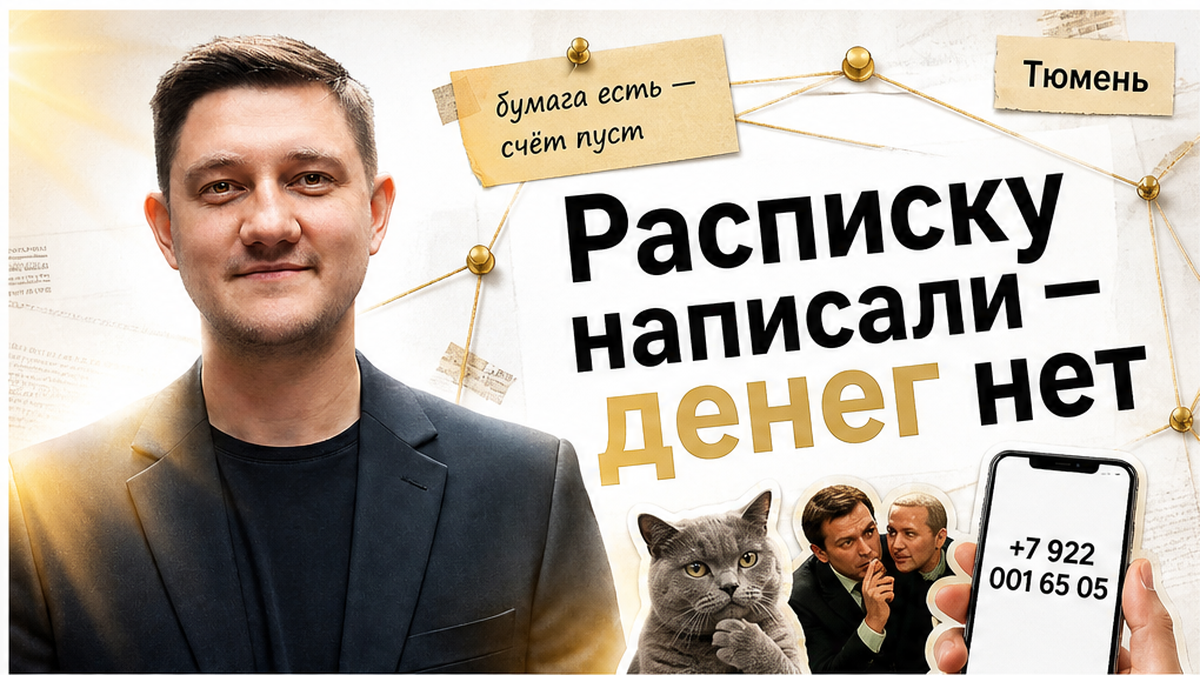
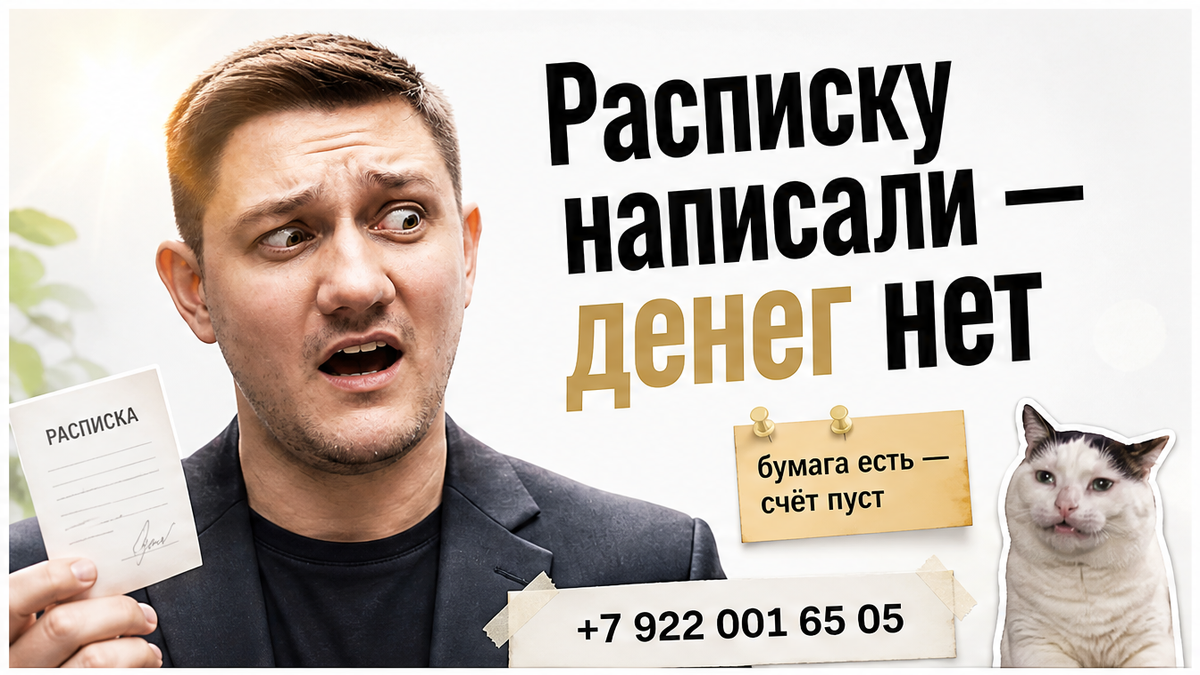
Expression invention: identity ≠ pose freeze; B02 bewildered cover
- cover-canon/blog-hero: KEEP bone structure, FREE emotion/pose each run
- Cover/Cover-QA skills: FAIL if studio smile copied 1:1
- Prompt: same person, NEW expression, FORBIDDEN polite studio smile
- B02 cover regen: bewildered «где деньги?»; md5 f1e90915d45c1929b0a28eabb78d0e30

diff --git a/scripts/excalibur_blog_cover_quad_prompt.py b/scripts/excalibur_blog_cover_quad_prompt.py
@@ -53,7 +53,12 @@ def sanitize_cover_scene_hint(scene: str, highlight: str) -> str:
     return _PINK_WORD_IN_SCENE.sub(_repl, scene)
 
 
-BODY_LOCK = "face-studio-2026-06-23 jaw/stubble/hairline; medium-slim; NOT chubby/puffy"
+BODY_LOCK = "face-studio identity: jaw/stubble/hairline/eyes; medium-slim; NOT chubby/puffy"
+I2I_EXPRESSION_LOCK = (
+    "same person as reference, NEW expression for the hook, "
+    "do NOT copy reference closed-mouth smile/pose/head angle; "
+    "FORBIDDEN polite studio smile"
+)
 COVER_PHONE_CTA = "+7 922 001 65 05"
 BOARD_STATIONERY = "tape/pins/strings/paper scraps; high-key #FFF/gold; not noir"
 INLINE_BAN_EXTRA = "icon slogans; empty cells; desk scene; cover copy; celebrity memes"
@@ -398,6 +403,9 @@ def build_prompt(
             if highlight
             else "paint at most ONE punch word in gold #dcc5a1"
         )
+        cover_emotion = compact(
+            str(cover.get("cover_emotion") or manifest.get("cover_emotion") or ""), 120
+        )
         cover_scene = sanitize_cover_scene_hint(str(cover.get("scene_hint") or ""), highlight)
         cover_hook_text = compact(manifest.get("cover_hook", ""), 120)
         cover_sticky = compact(str(cover.get("sticky") or ""), 48)
@@ -406,10 +414,15 @@ def build_prompt(
             if cover_sticky
             else ""
         )
+        emotion_clause = (
+            f"Expression: {cover_emotion}. {I2I_EXPRESSION_LOCK}."
+            if cover_emotion
+            else f"{I2I_EXPRESSION_LOCK}."
+        )
         panel_lines.append(
             f"TL COVER TXT «{cover_hook_text}» bold Cyrillic black, {highlight_rule}.{sticky_lock} "
             f"Phone EXACT «{COVER_PHONE_CTA}» readable CTA sticker. "
-            f"Host i2i left ({BODY_LOCK}); sun flare; "
+            f"Host i2i left ({BODY_LOCK}); {emotion_clause} sun flare; "
             f"{compact(cover_scene, COVER_SCENE_HINT_COMPACT)}; "
             f"1-2 meme stickers; {BOARD_STATIONERY}; Wordstat/Tyumen; #FFF; perfect Cyrillic"
         )
@@ -425,7 +438,7 @@ def build_prompt(
         f"{INLINE_BAN_EXTRA}."
     )
     reference_line = (
-        f"Cover TL only: i2i face-studio-2026-06-23 ({BODY_LOCK}); invent scene; no AI hero-ref."
+        f"Cover TL only: i2i face-studio-2026-06-23 ({BODY_LOCK}); {I2I_EXPRESSION_LOCK}; invent scene; no AI hero-ref."
         if has_cover
         else "Inlines: no host face; meme stickers OK on flagged panels."
     )

diff --git a/scripts/excalibur_blog_cover_qa_gate.py b/scripts/excalibur_blog_cover_qa_gate.py
@@ -12,6 +12,7 @@ from pathlib import Path
 REQUIRED_CHECKS = (
     "identity_face_28yo",
     "identity_body_medium_slim",
+    "identity_expression_invented",
     "cover_phone_readable",
     "board_stationery_ok",
     "typography_cyrillic_clean",

diff --git a/.cursor/skills/cover-qa-excalibur-blog/SKILL.md b/.cursor/skills/cover-qa-excalibur-blog/SKILL.md
@@ -14,8 +14,9 @@ FAIL → **вернуть Cover** (не Indexer/Publish).
 
 ## Что проверяешь (визуально + артефакты)
 
-1. **Лицо + телосложение хоста** — 28-летний Святослав по `identity-real/*`; **medium slim build** как на референсах (hoodie/office/greenhouse). **FAIL** если chubby, overweight, puffy cheeks, double chin, thick neck, wide torso в обтягивающем пиджаке.
-2. **Light / high-key** — светлая картинка, sun flare/glow; **нет** dark cinematic / low-key / twilight.
+1. **Лицо + телосложение хоста** — тот же человек что `face-studio-2026-06-23.jpg` (кости, hairline, глаза, щетина, 28 лет); **medium slim**. FAIL: chubby, другой человек.
+2. **Эмоция НЕ копия референса** — выражение под hook статьи (шок, side-eye, гримаса, недоумение «где деньги?»…). **FAIL** если вежливая студийная closed-mouth smile 1:1 как на reference. PASS если живая мимика под тему.
+3. **Light / high-key** — светлая картинка, sun flare/glow; **нет** dark cinematic / low-key / twilight.
 3. **Motif 14д** — нет коллизии с `memory/cover/used-motifs.json` (composition/location/meme…).
 4. **Люди в 8-set** — host на cover; в наборе из 8 изображений есть люди (host и/или meme-people stickers).
 5. **Коты** — meme-cat на cover/inline **или** недельная каденция не просела (не 3+ статей подряд без кота).
@@ -37,6 +38,7 @@ FAIL → **вернуть Cover** (не Indexer/Publish).
   "checks": {
     "identity_face_28yo": true,
     "identity_body_medium_slim": true,
+    "identity_expression_invented": true,
     "light_high_key": true,
     "motif_no_collision_14d": true,
     "people_in_8_set": true,
@@ -65,6 +67,6 @@ python3 scripts/excalibur_blog_cover_qa_gate.py --article-dir "$ARTICLE"
 
 - COVER QA BLOCKER — любой check false
 - identity-real missing
-- dark cinematic / wrong face → return Cover
+- dark cinematic / wrong face / reference smile clone → return Cover
 
 Agent: `agents/excalibur-blog-cover-qa.md`

diff --git a/skills/cover-qa-excalibur-blog/SKILL.md b/skills/cover-qa-excalibur-blog/SKILL.md
@@ -14,8 +14,9 @@ FAIL → **вернуть Cover** (не Indexer/Publish).
 
 ## Что проверяешь (визуально + артефакты)
 
-1. **Лицо + телосложение хоста** — 28-летний Святослав по `identity-real/*`; **medium slim build** как на референсах (hoodie/office/greenhouse). **FAIL** если chubby, overweight, puffy cheeks, double chin, thick neck, wide torso в обтягивающем пиджаке.
-2. **Light / high-key** — светлая картинка, sun flare/glow; **нет** dark cinematic / low-key / twilight.
+1. **Лицо + телосложение хоста** — тот же человек что `face-studio-2026-06-23.jpg` (кости, hairline, глаза, щетина, 28 лет); **medium slim**. FAIL: chubby, другой человек.
+2. **Эмоция НЕ копия референса** — выражение под hook статьи (шок, side-eye, гримаса, недоумение «где деньги?»…). **FAIL** если вежливая студийная closed-mouth smile 1:1 как на reference. PASS если живая мимика под тему.
+3. **Light / high-key** — светлая картинка, sun flare/glow; **нет** dark cinematic / low-key / twilight.
 3. **Motif 14д** — нет коллизии с `memory/cover/used-motifs.json` (composition/location/meme…).
 4. **Люди в 8-set** — host на cover; в наборе из 8 изображений есть люди (host и/или meme-people stickers).
 5. **Коты** — meme-cat на cover/inline **или** недельная каденция не просела (не 3+ статей подряд без кота).
@@ -37,6 +38,7 @@ FAIL → **вернуть Cover** (не Indexer/Publish).
   "checks": {
     "identity_face_28yo": true,
     "identity_body_medium_slim": true,
+    "identity_expression_invented": true,
     "light_high_key": true,
     "motif_no_collision_14d": true,
     "people_in_8_set": true,
@@ -65,6 +67,6 @@ python3 scripts/excalibur_blog_cover_qa_gate.py --article-dir "$ARTICLE"
 
 - COVER QA BLOCKER — любой check false
 - identity-real missing
-- dark cinematic / wrong face → return Cover
+- dark cinematic / wrong face / reference smile clone → return Cover
 
 Agent: `agents/excalibur-blog-cover-qa.md`

diff --git a/.cursor/skills/cover-excalibur-blog/SKILL.md b/.cursor/skills/cover-excalibur-blog/SKILL.md
@@ -43,8 +43,9 @@ PRIMARY: **Derouter REST** (`DEROUTER_API_KEY` + `DEROUTER_IMAGE_MODEL`, api-dir
 3. **Light & bright** — high-key, sun flare, light leak, glow; **no dark cinematic**.
 4. **Memes required** — meme cats + meme people stickers; host Святослав; 8-set includes people.
 5. **Wordstat stickers** — 1–3 readable labels from live Wordstat (Тюмень regions 55+11176).
-6. **Identity + body lock** — `identity-real/*` i2i; medium slim build как refs; NOT chubby/puffy/thick neck.
-7. **REJECTED daypart formula** — never morning desk / day street / evening close / night split.
+6. **Identity + body lock** — `face-studio-2026-06-23.jpg` i2i (WHO only); medium slim; NOT chubby.
+7. **Expression invention (HARD)** — эмоция/мимика/поза **новые каждый раз** под hook; `scene_hint` + `cover_emotion` называют эмоцию (шок, side-eye, гримаса, недоумение…). i2i: «same person, NEW expression, do not copy reference smile/pose». Копия студийной улыбки 1:1 = FAIL.
+8. **REJECTED daypart formula** — never morning desk / day street / evening close / night split.
 
 ## Inline canon (v3 utility-first)
 
@@ -84,7 +85,8 @@ python3 scripts/excalibur_blog_cover_motif_gate.py record --topic-id <id> --comp
 ## manifest fields (agent)
 
 - `cover_hook`, `cover_hook_highlight` — from cover-text.json
-- `slots.cover.scene_hint` — bright invented scene (~80–140 chars)
+- `slots.cover.scene_hint` — bright invented scene (~80–140 chars) **+ named emotion**
+- `slots.cover.cover_emotion` — hook-matched face (shock, side-eye, grimace, bewildered…); never «same as reference»
 - `cover_motifs` — composition, location, meme, prop_set, sticker_set, joke
 - `wordstat_stickers` — 1–3 phrases from Scout/Research Wordstat
 - `slots.inline_1…7` — H2 anchors, `visual_type` (utility catalog), scene_hint, fact labels (3–6)

diff --git a/skills/cover-excalibur-blog/SKILL.md b/skills/cover-excalibur-blog/SKILL.md
@@ -43,8 +43,9 @@ PRIMARY: **Derouter REST** (`DEROUTER_API_KEY` + `DEROUTER_IMAGE_MODEL`, api-dir
 3. **Light & bright** — high-key, sun flare, light leak, glow; **no dark cinematic**.
 4. **Memes required** — meme cats + meme people stickers; host Святослав; 8-set includes people.
 5. **Wordstat stickers** — 1–3 readable labels from live Wordstat (Тюмень regions 55+11176).
-6. **Identity + body lock** — `identity-real/*` i2i; medium slim build как refs; NOT chubby/puffy/thick neck.
-7. **REJECTED daypart formula** — never morning desk / day street / evening close / night split.
+6. **Identity + body lock** — `face-studio-2026-06-23.jpg` i2i (WHO only); medium slim; NOT chubby.
+7. **Expression invention (HARD)** — эмоция/мимика/поза **новые каждый раз** под hook; `scene_hint` + `cover_emotion` называют эмоцию (шок, side-eye, гримаса, недоумение…). i2i: «same person, NEW expression, do not copy reference smile/pose». Копия студийной улыбки 1:1 = FAIL.
+8. **REJECTED daypart formula** — never morning desk / day street / evening close / night split.
 
 ## Inline canon (v3 utility-first)
 
@@ -84,7 +85,8 @@ python3 scripts/excalibur_blog_cover_motif_gate.py record --topic-id <id> --comp
 ## manifest fields (agent)
 
 - `cover_hook`, `cover_hook_highlight` — from cover-text.json
-- `slots.cover.scene_hint` — bright invented scene (~80–140 chars)
+- `slots.cover.scene_hint` — bright invented scene (~80–140 chars) **+ named emotion**
+- `slots.cover.cover_emotion` — hook-matched face (shock, side-eye, grimace, bewildered…); never «same as reference»
 - `cover_motifs` — composition, location, meme, prop_set, sticker_set, joke
 - `wordstat_stickers` — 1–3 phrases from Scout/Research Wordstat
 - `slots.inline_1…7` — H2 anchors, `visual_type` (utility catalog), scene_hint, fact labels (3–6)

diff --git a/.cursor/agents/excalibur-blog-cover-qa.md b/.cursor/agents/excalibur-blog-cover-qa.md
@@ -17,7 +17,8 @@ FAIL → **вернуть Cover**, не пускать Indexer/Publish.
 
 ## FAIL если
 
-- лицо не 28yo Святослав vs `identity-real/*` (пластик / AI / чужой)
+- лицо не тот же человек что `face-studio-2026-06-23.jpg` (пластик / AI / чужой)
+- **эмоция скопирована с референса** — вежливая студийная closed-mouth smile / та же поза 1:1 → FAIL (нужна живая мимика под hook)
 - **телосложение толще референсов** — chubby, puffy cheeks, double chin, thick neck, wide torso в tight blazer → FAIL
 - dark cinematic / не high-key light
 - motif collision 14д (`used-motifs.json`)

diff --git a/agents/excalibur-blog-cover-qa.md b/agents/excalibur-blog-cover-qa.md
@@ -17,7 +17,8 @@ FAIL → **вернуть Cover**, не пускать Indexer/Publish.
 
 ## FAIL если
 
-- лицо не 28yo Святослав vs `identity-real/*` (пластик / AI / чужой)
+- лицо не тот же человек что `face-studio-2026-06-23.jpg` (пластик / AI / чужой)
+- **эмоция скопирована с референса** — вежливая студийная closed-mouth smile / та же поза 1:1 → FAIL (нужна живая мимика под hook)
 - **телосложение толще референсов** — chubby, puffy cheeks, double chin, thick neck, wide torso в tight blazer → FAIL
 - dark cinematic / не high-key light
 - motif collision 14д (`used-motifs.json`)

diff --git a/.cursor/agents/excalibur-blog-cover.md b/.cursor/agents/excalibur-blog-cover.md
@@ -35,7 +35,7 @@ Cover генерирует **2×** quad-холста 2×2 (**Derouter REST** + `
 3. **Light & bright:** sun flare, light leak, glow, airy #FFFFFF — no dark cinematic.
 4. **Мемы:** meme cat + meme people sticker cutouts; host Святослав LARGE left.
 5. **1–3 Wordstat stickers** — live high-frequency RU queries (Тюмень/область), из research/handoff.
-6. **Identity:** i2i `identity-real/*` only; new emotion/pose; no scene clone.
+6. **Identity:** i2i `face-studio-2026-06-23.jpg` only (WHO); **NEW expression** per hook (`cover_emotion` + scene_hint); never copy reference smile/pose.
 
 ## Пайплайн
 

diff --git a/agents/excalibur-blog-cover.md b/agents/excalibur-blog-cover.md
@@ -35,7 +35,7 @@ Cover генерирует **2×** quad-холста 2×2 (**Derouter REST** + `
 3. **Light & bright:** sun flare, light leak, glow, airy #FFFFFF — no dark cinematic.
 4. **Мемы:** meme cat + meme people sticker cutouts; host Святослав LARGE left.
 5. **1–3 Wordstat stickers** — live high-frequency RU queries (Тюмень/область), из research/handoff.
-6. **Identity:** i2i `identity-real/*` only; new emotion/pose; no scene clone.
+6. **Identity:** i2i `face-studio-2026-06-23.jpg` only (WHO); **NEW expression** per hook (`cover_emotion` + scene_hint); never copy reference smile/pose.
 
 ## Пайплайн
 
